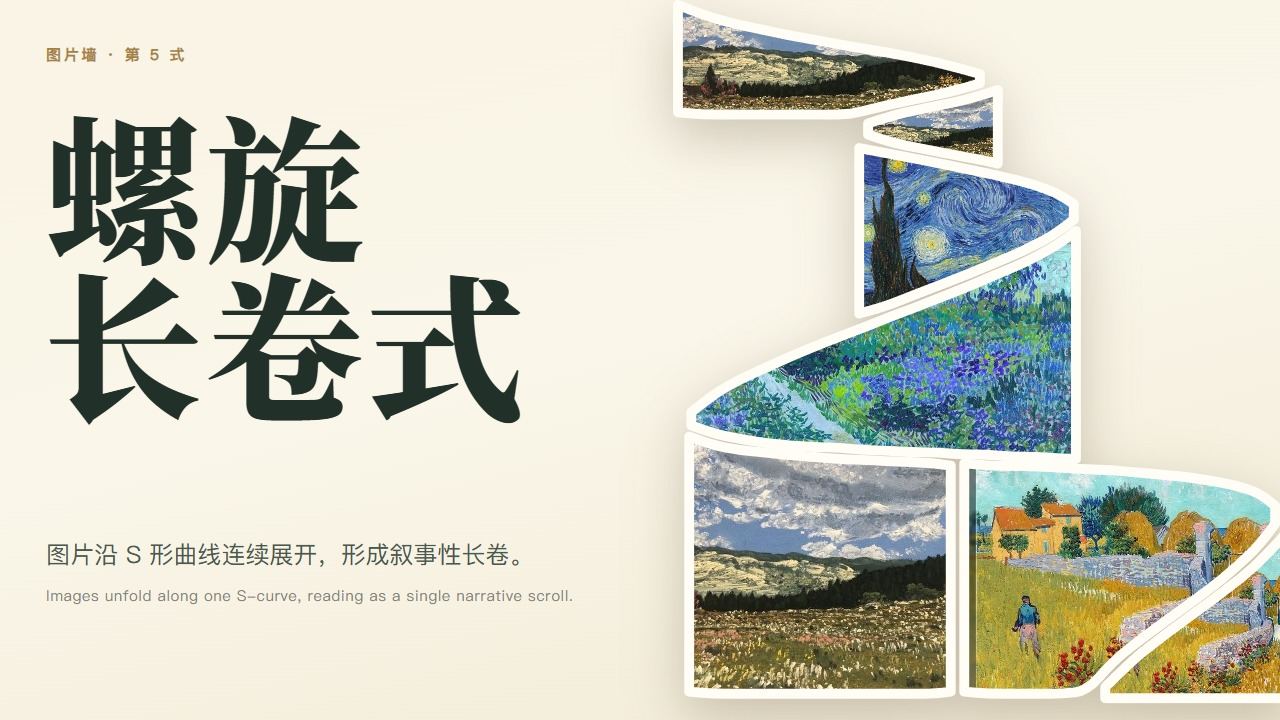
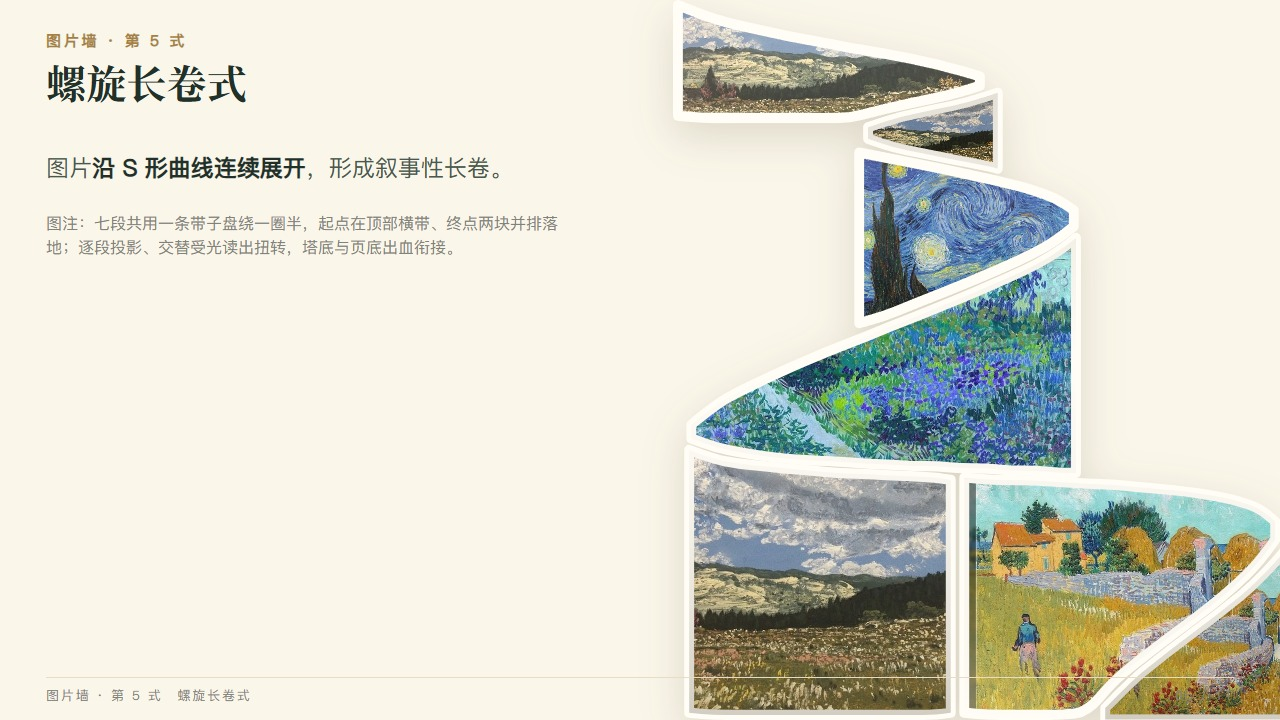
rice-paper-ppt 1.7.1：螺旋长卷式整页通栏重做（文字规格对齐、逐段立体投影、塔底出血衔接）
- 文字弃 158px 巨字封面（.cv-hero/.cv-couplet/.cv-lede 删除），改与其他十式同一套规格：.sh（kick 15px + stitle 40px）+ .lead + .figcap + .foot（05 / 11），.sb 宽限 520px
- 立体感重做：投影改逐段 SVG 原生滤镜 #coilShadow（feDropShadow，后段压前段）+ .lit 受光层按段交替铺上亮下暗/反向渐变；CSS filter 挂内层 g 会按用户单位栅格化再放大导致整塔发虚，已在文档中记坑
- 底部衔接：viewBox 436 → 423.4（内容底+描边）+ preserveAspectRatio=none + height:720 拉满，塔底与页底出血衔接；落位更名「封面」→「整页通栏」
- components 第八节 SVG/通栏示例、page-patterns §12.5、README、SKILL、interface.yaml、manifest 同步，两份副本 diff 全等

diff --git a/rice-paper-ppt/examples/wall-coil.html b/rice-paper-ppt/examples/wall-coil.html
@@ -3,7 +3,7 @@
 
 <head>
   <meta charset="utf-8">
-  <title>图片墙 第 5 式 · 螺旋长卷（封面落位）· rice-paper-ppt 示例</title>
+  <title>图片墙 第 5 式 · 螺旋长卷（整页通栏）· rice-paper-ppt 示例</title>
   <link rel="stylesheet" href="../assets/theme.css">
 </head>
 
@@ -11,18 +11,23 @@
   <div class="pbar"></div>
   <div id="deck">
 
-    <!-- 5 螺旋长卷式（旧称「盘旋丝带」）封面落位：path 与 components.md 第八节完全一致，
-         class 加 cv-coil、stroke 2.2 → 6；塔按页高 720 定宽 637、右移 30px 出血。
-         标题 5 字放一行会压到塔（5×158=790 > 611），所以断成两行；
-         定义句横排一句放左下（22 字竖排要拆两列且不好读），需要诗句式标题时再加 .cv-couplet。 -->
-    <section class="slide cover on">
-      <div class="kick" style="position:absolute;left:46px;top:44px">图片墙 · 第 5 式</div>
-      <h1 class="cv-hero"><span>螺旋</span><span>长卷式</span></h1>
-      <div class="cv-lede" style="width:560px;bottom:112px">
-        <p style="font-size:24px">图片沿 S 形曲线连续展开，形成叙事性长卷。</p>
-        <p class="en" style="font-size:15px">Images unfold along one S-curve, reading as a single narrative scroll.</p>
+    <!-- 5 螺旋长卷式（旧称「盘旋丝带」）整页通栏：path 与 components.md 第八节完全一致，
+         改四处 —— class 加 cv-coil、stroke 2.2 → 6、svg 加 preserveAspectRatio="none"、
+         CSS .cv-coil 定 height:720 拉满 → 塔底与页底出血衔接（右缘 -30px 出血同前）。
+         文字与其他十式同一套规格：.sh（kick 15px + stitle 40px）+ .lead 导语 +
+         .figcap 图注 + .foot 页脚；.sb 宽限到 520px，别让导语跑进塔后面。
+         立体：每段挂 SVG 滤镜 #coilShadow 各自投影（后段压前段），
+         .lit 按段交替铺上亮下暗 / 反向渐变；CSS filter 挂内层 g 会发虚，别改回去。 -->
+    <section class="slide on">
+      <div class="sh">
+        <div class="kick">图片墙 · 第 5 式</div>
+        <h1 class="stitle">螺旋长卷式</h1>
       </div>
-      <svg class="w-coil cv-coil" viewBox="-3 -3 386 436" role="img" aria-label="七段取景沿一条盘绕的丝带自上而下铺开">
+      <div class="sb" style="width:520px;right:auto">
+        <p class="lead">图片<b>沿 S 形曲线连续展开</b>，形成叙事性长卷。</p>
+        <div class="figcap">图注：七段共用一条带子盘绕一圈半，起点在顶部横带、终点两块并排落地；逐段投影、交替受光读出扭转，塔底与页底出血衔接。</div>
+      </div>
+      <svg class="w-coil cv-coil" viewBox="-3 -3 386 423.4" preserveAspectRatio="none" role="img" aria-label="七段取景沿一条盘绕的丝带自上而下铺开">
     <defs>
       <clipPath id="coil1"><path d="M0.0 0.0 Q14.9 5.9 22.4 8.1 Q29.8 10.4 37.3 12.0 Q44.7 13.7 52.2 15.2 Q59.6 16.7 67.1 18.3 Q74.5 19.9 82.0 21.0 Q89.5 22.2 96.9 23.7 Q104.4 25.3 111.8 26.3 Q119.3 27.3 126.7 28.8 Q134.2 30.3 141.6 31.6 Q149.1 33.0 156.5 34.8 Q164.0 36.6 171.4 38.6 Q178.9 40.7 180.9 41.3 L183.0 42.0 L183.0 47.4 183.0 47.4 Q178.9 48.8 171.4 50.9 Q164.0 53.0 156.5 54.5 Q149.1 56.0 141.6 57.6 Q134.2 59.2 126.7 60.8 Q119.3 62.5 111.8 64.4 Q104.4 66.4 96.9 66.4 Q89.5 66.4 82.0 66.4 Q74.5 66.4 67.1 66.4 Q59.6 66.4 52.2 66.4 Q44.7 66.4 37.3 66.4 Q29.8 66.4 22.4 66.4 Q14.9 66.4 7.5 65.7 L0.0 65.1 Z"/></clipPath>
       <clipPath id="coil2"><path d="M115.2 71.8 Q130.1 66.9 137.6 65.2 Q145.0 63.6 152.5 62.0 Q159.9 60.5 167.4 59.0 Q174.8 57.4 182.3 55.1 Q189.7 52.9 191.8 52.2 L193.8 51.5 L193.8 96.2 193.8 96.2 Q189.7 95.0 182.3 93.7 Q174.8 92.3 167.4 90.9 Q159.9 89.5 152.5 88.0 Q145.0 86.6 137.6 85.1 Q130.1 83.6 122.7 81.1 L115.2 78.6 Z"/></clipPath>
@@ -31,14 +36,24 @@
       <clipPath id="coil5"><path d="M6.8 261.6 Q21.7 267.0 29.1 268.3 Q36.6 269.7 44.0 270.4 Q51.5 271.1 59.0 271.8 Q66.4 272.6 73.9 273.2 Q81.3 273.8 88.8 274.5 Q96.2 275.1 103.7 275.4 Q111.1 275.6 118.6 276.0 Q126.0 276.5 133.5 276.7 Q141.0 276.9 148.4 277.4 Q155.9 277.8 160.6 278.5 L165.3 279.2 L165.3 416.1 165.3 416.1 Q155.9 417.4 148.4 417.4 Q141.0 417.4 133.5 417.4 Q126.0 417.4 118.6 417.4 Q111.1 417.4 103.7 417.4 Q96.2 417.4 88.8 417.4 Q81.3 417.4 73.9 417.4 Q66.4 417.4 59.0 417.4 Q51.5 417.4 44.0 417.4 Q36.6 417.4 29.1 417.4 Q21.7 417.4 14.2 416.8 L6.8 416.1 Z"/></clipPath>
       <clipPath id="coil6"><path d="M173.5 277.8 Q188.4 279.2 195.8 279.2 Q203.3 279.2 210.8 279.4 Q218.2 279.7 225.7 280.1 Q233.1 280.5 240.6 281.0 Q248.0 281.4 255.5 281.7 Q262.9 281.9 270.4 282.6 Q277.8 283.3 285.3 283.9 Q292.7 284.6 300.2 285.3 Q307.7 286.0 315.1 287.1 Q322.6 288.2 330.0 289.6 Q337.5 290.9 344.9 293.4 Q352.4 295.8 357.1 299.7 L361.9 303.6 L361.9 314.4 361.9 314.4 Q352.4 327.5 344.9 334.5 Q337.5 341.5 330.0 347.6 Q322.6 353.6 315.1 359.1 Q307.7 364.6 300.2 369.9 Q292.7 375.3 285.3 380.9 Q277.8 386.4 270.4 392.4 Q262.9 398.5 255.5 407.1 Q248.0 415.7 240.6 416.6 Q233.1 417.4 225.7 417.4 Q218.2 417.4 210.8 417.4 Q203.3 417.4 195.8 417.4 Q188.4 417.4 180.9 416.8 L173.5 416.1 Z"/></clipPath>
       <clipPath id="coil7"><path d="M258.9 413.4 Q273.8 398.5 281.2 392.4 Q288.7 386.4 296.1 380.9 Q303.6 375.4 311.0 369.9 Q318.5 364.5 326.0 358.9 Q333.4 353.3 340.9 347.4 Q348.3 341.5 355.8 333.8 Q363.2 326.2 365.9 323.0 L368.6 319.9 L368.6 420.1 368.6 420.1 Q363.2 420.1 355.8 420.1 Q348.3 420.1 340.9 420.1 Q333.4 420.1 326.0 420.1 Q318.5 420.1 311.0 420.1 Q303.6 420.1 296.1 420.1 Q288.7 420.1 281.2 420.1 Q273.8 420.1 266.3 420.1 L258.9 420.1 Z"/></clipPath>
+      <filter id="coilShadow" x="-40%" y="-40%" width="180%" height="180%">
+        <feDropShadow dx="0" dy="4" stdDeviation="3" flood-color="#4A3A22" flood-opacity=".30"/>
+        <feDropShadow dx="0" dy="1.2" stdDeviation="1" flood-color="#4A3A22" flood-opacity=".16"/>
+      </filter>
+      <linearGradient id="coilLiteA" x1="0" y1="0" x2="0" y2="1">
+        <stop offset="0" stop-color="#FFFDF6" stop-opacity=".28"/><stop offset=".45" stop-color="#FFFDF6" stop-opacity="0"/><stop offset="1" stop-color="#4A3A22" stop-opacity=".26"/>
+      </linearGradient>
+      <linearGradient id="coilLiteB" x1="0" y1="0" x2="0" y2="1">
+        <stop offset="0" stop-color="#4A3A22" stop-opacity=".20"/><stop offset=".5" stop-color="#4A3A22" stop-opacity="0"/><stop offset="1" stop-color="#FFFDF6" stop-opacity=".16"/>
+      </linearGradient>
     </defs>
-    <g clip-path="url(#coil1)"><image href="img/vg1.jpg" x="0.0" y="0.0" width="191.0" height="74.4" preserveAspectRatio="xMidYMid slice"/></g>
-    <g clip-path="url(#coil2)"><image href="img/vg1.jpg" x="115.2" y="51.5" width="86.6" height="52.7" preserveAspectRatio="xMidYMid slice"/></g>
-    <g clip-path="url(#coil3)"><image href="img/vg4.jpg" x="109.8" y="85.4" width="138.1" height="111.0" preserveAspectRatio="xMidYMid slice"/></g>
-    <g clip-path="url(#coil4)"><image href="img/vg3.jpg" x="8.1" y="136.9" width="241.1" height="146.2" preserveAspectRatio="xMidYMid slice"/></g>
-    <g clip-path="url(#coil5)"><image href="img/vg1.jpg" x="6.8" y="261.6" width="166.6" height="163.9" preserveAspectRatio="xMidYMid slice"/></g>
-    <g clip-path="url(#coil6)"><image href="img/vg2.jpg" x="173.5" y="277.8" width="196.4" height="147.6" preserveAspectRatio="xMidYMid slice"/></g>
-    <g clip-path="url(#coil7)"><image href="img/vg2.jpg" x="258.9" y="319.9" width="117.8" height="108.3" preserveAspectRatio="xMidYMid slice"/></g>
+    <g clip-path="url(#coil1)" class="seg" filter="url(#coilShadow)"><image href="img/vg1.jpg" x="0.0" y="0.0" width="191.0" height="74.4" preserveAspectRatio="xMidYMid slice"/></g>
+    <g clip-path="url(#coil2)" class="seg" filter="url(#coilShadow)"><image href="img/vg1.jpg" x="115.2" y="51.5" width="86.6" height="52.7" preserveAspectRatio="xMidYMid slice"/></g>
+    <g clip-path="url(#coil3)" class="seg" filter="url(#coilShadow)"><image href="img/vg4.jpg" x="109.8" y="85.4" width="138.1" height="111.0" preserveAspectRatio="xMidYMid slice"/></g>
+    <g clip-path="url(#coil4)" class="seg" filter="url(#coilShadow)"><image href="img/vg3.jpg" x="8.1" y="136.9" width="241.1" height="146.2" preserveAspectRatio="xMidYMid slice"/></g>
+    <g clip-path="url(#coil5)" class="seg" filter="url(#coilShadow)"><image href="img/vg1.jpg" x="6.8" y="261.6" width="166.6" height="163.9" preserveAspectRatio="xMidYMid slice"/></g>
+    <g clip-path="url(#coil6)" class="seg" filter="url(#coilShadow)"><image href="img/vg2.jpg" x="173.5" y="277.8" width="196.4" height="147.6" preserveAspectRatio="xMidYMid slice"/></g>
+    <g clip-path="url(#coil7)" class="seg" filter="url(#coilShadow)"><image href="img/vg2.jpg" x="258.9" y="319.9" width="117.8" height="108.3" preserveAspectRatio="xMidYMid slice"/></g>
     <g fill="none" stroke="#FFFDF6" stroke-width="6" stroke-linejoin="round">
       <path d="M0.0 0.0 Q14.9 5.9 22.4 8.1 Q29.8 10.4 37.3 12.0 Q44.7 13.7 52.2 15.2 Q59.6 16.7 67.1 18.3 Q74.5 19.9 82.0 21.0 Q89.5 22.2 96.9 23.7 Q104.4 25.3 111.8 26.3 Q119.3 27.3 126.7 28.8 Q134.2 30.3 141.6 31.6 Q149.1 33.0 156.5 34.8 Q164.0 36.6 171.4 38.6 Q178.9 40.7 180.9 41.3 L183.0 42.0 L183.0 47.4 183.0 47.4 Q178.9 48.8 171.4 50.9 Q164.0 53.0 156.5 54.5 Q149.1 56.0 141.6 57.6 Q134.2 59.2 126.7 60.8 Q119.3 62.5 111.8 64.4 Q104.4 66.4 96.9 66.4 Q89.5 66.4 82.0 66.4 Q74.5 66.4 67.1 66.4 Q59.6 66.4 52.2 66.4 Q44.7 66.4 37.3 66.4 Q29.8 66.4 22.4 66.4 Q14.9 66.4 7.5 65.7 L0.0 65.1 Z"/>
       <path d="M115.2 71.8 Q130.1 66.9 137.6 65.2 Q145.0 63.6 152.5 62.0 Q159.9 60.5 167.4 59.0 Q174.8 57.4 182.3 55.1 Q189.7 52.9 191.8 52.2 L193.8 51.5 L193.8 96.2 193.8 96.2 Q189.7 95.0 182.3 93.7 Q174.8 92.3 167.4 90.9 Q159.9 89.5 152.5 88.0 Q145.0 86.6 137.6 85.1 Q130.1 83.6 122.7 81.1 L115.2 78.6 Z"/>
@@ -48,7 +63,17 @@
       <path d="M173.5 277.8 Q188.4 279.2 195.8 279.2 Q203.3 279.2 210.8 279.4 Q218.2 279.7 225.7 280.1 Q233.1 280.5 240.6 281.0 Q248.0 281.4 255.5 281.7 Q262.9 281.9 270.4 282.6 Q277.8 283.3 285.3 283.9 Q292.7 284.6 300.2 285.3 Q307.7 286.0 315.1 287.1 Q322.6 288.2 330.0 289.6 Q337.5 290.9 344.9 293.4 Q352.4 295.8 357.1 299.7 L361.9 303.6 L361.9 314.4 361.9 314.4 Q352.4 327.5 344.9 334.5 Q337.5 341.5 330.0 347.6 Q322.6 353.6 315.1 359.1 Q307.7 364.6 300.2 369.9 Q292.7 375.3 285.3 380.9 Q277.8 386.4 270.4 392.4 Q262.9 398.5 255.5 407.1 Q248.0 415.7 240.6 416.6 Q233.1 417.4 225.7 417.4 Q218.2 417.4 210.8 417.4 Q203.3 417.4 195.8 417.4 Q188.4 417.4 180.9 416.8 L173.5 416.1 Z"/>
       <path d="M258.9 413.4 Q273.8 398.5 281.2 392.4 Q288.7 386.4 296.1 380.9 Q303.6 375.4 311.0 369.9 Q318.5 364.5 326.0 358.9 Q333.4 353.3 340.9 347.4 Q348.3 341.5 355.8 333.8 Q363.2 326.2 365.9 323.0 L368.6 319.9 L368.6 420.1 368.6 420.1 Q363.2 420.1 355.8 420.1 Q348.3 420.1 340.9 420.1 Q333.4 420.1 326.0 420.1 Q318.5 420.1 311.0 420.1 Q303.6 420.1 296.1 420.1 Q288.7 420.1 281.2 420.1 Q273.8 420.1 266.3 420.1 L258.9 420.1 Z"/>
     </g>
+    <g class="lit">
+      <g clip-path="url(#coil1)"><rect x="-3" y="-3" width="386" height="426.4" fill="url(#coilLiteA)"/></g>
+      <g clip-path="url(#coil2)"><rect x="-3" y="-3" width="386" height="426.4" fill="url(#coilLiteB)"/></g>
+      <g clip-path="url(#coil3)"><rect x="-3" y="-3" width="386" height="426.4" fill="url(#coilLiteA)"/></g>
+      <g clip-path="url(#coil4)"><rect x="-3" y="-3" width="386" height="426.4" fill="url(#coilLiteB)"/></g>
+      <g clip-path="url(#coil5)"><rect x="-3" y="-3" width="386" height="426.4" fill="url(#coilLiteA)"/></g>
+      <g clip-path="url(#coil6)"><rect x="-3" y="-3" width="386" height="426.4" fill="url(#coilLiteB)"/></g>
+      <g clip-path="url(#coil7)"><rect x="-3" y="-3" width="386" height="426.4" fill="url(#coilLiteA)"/></g>
+    </g>
   </svg>
+      <div class="foot"><span>图片墙 · 第 5 式　螺旋长卷式</span><span>05 / 11</span></div>
     </section>
 
   </div>

diff --git a/rice-paper-ppt/assets/theme.css b/rice-paper-ppt/assets/theme.css
@@ -594,8 +594,14 @@ em { font-style: normal; font-weight: 700; color: var(--green); }
    七条 path 与 bbox 原样抄自 components.md 第八节，改动时两边同步。 */
 .w-coil {
   width: 100%; height: auto; display: block;
-  filter: drop-shadow(0 18px 24px rgba(74,58,34,.30)) drop-shadow(0 4px 8px rgba(74,58,34,.14));
+  filter: drop-shadow(0 16px 22px rgba(74,58,34,.22)) drop-shadow(0 3px 6px rgba(74,58,34,.10));
 }
+/* 立体感主力在逐段投影：后画的段压在前一段上，各带自己的影，带子才读得出层叠；
+   只留塔级一层会显得平（2026-11-27 用户反馈后从「投影只挂 svg」改过来）。
+   投影必须用 SVG 原生滤镜（defs 里的 #coilShadow，挂在每段 filter 属性上）——
+   CSS filter 挂内层 <g> 会先按用户单位栅格化再放大，整塔发虚。 */
+/* 受光层：.lit 内按段交替铺 coilLiteA（上亮下暗）/ coilLiteB（反向），渐变写在 SVG defs 里 */
+.w-coil .lit { pointer-events: none; }
 
 /* 立体的最后一道：沿遮罩轮廓压一层顶亮底暗，读出弯曲受光 */
 .w-wave::after,
@@ -801,28 +807,15 @@ em { font-style: normal; font-weight: 700; color: var(--green); }
   letter-spacing: .12em; color: #35493B; transform: rotate(-7deg); transform-origin: left center;
 }
 
-/* ── 封面 · 5 式满幅盘绕塔（右半出血）────────────────────────
-   与 .cover 一起用：塔按页高 720 定宽 637，右移 30px 出血，上下顶到画布边缘。
-   必须写在 .w-coil 之后——两者特异度相同，靠顺序把 width:100% 覆盖掉。 */
+/* ── 5 式整页通栏盘绕塔（右缘 + 底缘出血）────────────────────────
+   常规 .slide 页用：svg 上写 preserveAspectRatio="none"，viewBox 收到内容底
+   （-3 -3 386 423.4），CSS 定 height:720 拉满后塔底与页底出血衔接。
+   必须写在 .w-coil 之后——两者特异度相同，靠顺序把 width:100% 覆盖掉。
+   文字不另设类：.sh / .sb（宽限到 520px）/ .foot 与其他页同一套。 */
 .cv-coil {
-  position: absolute; right: -30px; top: 0; width: 637px; height: auto; display: block;
-  filter: drop-shadow(0 18px 26px rgba(74,58,34,.26));
+  position: absolute; right: -30px; top: 0; width: 637px; height: 720px; display: block;
+  filter: drop-shadow(0 14px 20px rgba(74,58,34,.16));
 }
-.cv-hero {
-  position: absolute; left: 44px; top: 104px; margin: 0;
-  font-family: var(--serif); font-size: 158px; font-weight: 900; line-height: 1;
-  letter-spacing: .02em; color: var(--ink);
-}
-.cv-hero span { display: block; }
-.cv-couplet { position: absolute; left: 478px; top: 118px; display: flex; gap: 30px; }
-.cv-couplet div {
-  writing-mode: vertical-rl; text-orientation: upright;
-  font-family: var(--serif); font-size: 23px; line-height: 1.7;
-  letter-spacing: .36em; color: var(--ink-2);
-}
-.cv-lede { position: absolute; left: 46px; bottom: 100px; width: 500px; margin: 0; }
-.cv-lede p { margin: 0; font-size: 20px; line-height: 1.72; color: var(--ink-2); }
-.cv-lede .en { margin-top: 9px; font-size: 14px; line-height: 1.6; letter-spacing: .04em; color: var(--ink-3); }
 
 /* ── 章节页 ───────────────────────────────────────────────── */
 .sec-num {

diff --git a/rice-paper-ppt/references/components.md b/rice-paper-ppt/references/components.md
@@ -184,9 +184,9 @@
     <div class="wt" style="font-size:var(--fs-h1);margin:0">自上而下，绕出三段风景</div>
     <div class="cb">每块只放一张图，块与块之间留纸白缝，整条读成一个动作。</div>
     <div class="cb sm">横带承担起势与转折，竖带承担停留；末端两块并排，收住全篇。</div>
-    <div class="figcap" style="margin:0">图注：七块同题材取景沿丝带盘绕，投影只挂整座塔。</div>
+    <div class="figcap" style="margin:0">图注：七块同题材取景沿丝带盘绕，逐段投影（SVG 滤镜）、交替受光读出层叠。</div>
   </div>
-  <svg class="w-coil" viewBox="-3 -3 386 436" role="img" aria-label="七段取景沿一条盘绕的丝带自上而下铺开">
+  <svg class="w-coil" viewBox="-3 -3 386 423.4" preserveAspectRatio="none" role="img" aria-label="七段取景沿一条盘绕的丝带自上而下铺开">
     <defs>
       <clipPath id="coil1"><path d="M0.0 0.0 Q14.9 5.9 22.4 8.1 Q29.8 10.4 37.3 12.0 Q44.7 13.7 52.2 15.2 Q59.6 16.7 67.1 18.3 Q74.5 19.9 82.0 21.0 Q89.5 22.2 96.9 23.7 Q104.4 25.3 111.8 26.3 Q119.3 27.3 126.7 28.8 Q134.2 30.3 141.6 31.6 Q149.1 33.0 156.5 34.8 Q164.0 36.6 171.4 38.6 Q178.9 40.7 180.9 41.3 L183.0 42.0 L183.0 47.4 183.0 47.4 Q178.9 48.8 171.4 50.9 Q164.0 53.0 156.5 54.5 Q149.1 56.0 141.6 57.6 Q134.2 59.2 126.7 60.8 Q119.3 62.5 111.8 64.4 Q104.4 66.4 96.9 66.4 Q89.5 66.4 82.0 66.4 Q74.5 66.4 67.1 66.4 Q59.6 66.4 52.2 66.4 Q44.7 66.4 37.3 66.4 Q29.8 66.4 22.4 66.4 Q14.9 66.4 7.5 65.7 L0.0 65.1 Z"/></clipPath>
       <clipPath id="coil2"><path d="M115.2 71.8 Q130.1 66.9 137.6 65.2 Q145.0 63.6 152.5 62.0 Q159.9 60.5 167.4 59.0 Q174.8 57.4 182.3 55.1 Q189.7 52.9 191.8 52.2 L193.8 51.5 L193.8 96.2 193.8 96.2 Q189.7 95.0 182.3 93.7 Q174.8 92.3 167.4 90.9 Q159.9 89.5 152.5 88.0 Q145.0 86.6 137.6 85.1 Q130.1 83.6 122.7 81.1 L115.2 78.6 Z"/></clipPath>
@@ -195,14 +195,24 @@
       <clipPath id="coil5"><path d="M6.8 261.6 Q21.7 267.0 29.1 268.3 Q36.6 269.7 44.0 270.4 Q51.5 271.1 59.0 271.8 Q66.4 272.6 73.9 273.2 Q81.3 273.8 88.8 274.5 Q96.2 275.1 103.7 275.4 Q111.1 275.6 118.6 276.0 Q126.0 276.5 133.5 276.7 Q141.0 276.9 148.4 277.4 Q155.9 277.8 160.6 278.5 L165.3 279.2 L165.3 416.1 165.3 416.1 Q155.9 417.4 148.4 417.4 Q141.0 417.4 133.5 417.4 Q126.0 417.4 118.6 417.4 Q111.1 417.4 103.7 417.4 Q96.2 417.4 88.8 417.4 Q81.3 417.4 73.9 417.4 Q66.4 417.4 59.0 417.4 Q51.5 417.4 44.0 417.4 Q36.6 417.4 29.1 417.4 Q21.7 417.4 14.2 416.8 L6.8 416.1 Z"/></clipPath>
       <clipPath id="coil6"><path d="M173.5 277.8 Q188.4 279.2 195.8 279.2 Q203.3 279.2 210.8 279.4 Q218.2 279.7 225.7 280.1 Q233.1 280.5 240.6 281.0 Q248.0 281.4 255.5 281.7 Q262.9 281.9 270.4 282.6 Q277.8 283.3 285.3 283.9 Q292.7 284.6 300.2 285.3 Q307.7 286.0 315.1 287.1 Q322.6 288.2 330.0 289.6 Q337.5 290.9 344.9 293.4 Q352.4 295.8 357.1 299.7 L361.9 303.6 L361.9 314.4 361.9 314.4 Q352.4 327.5 344.9 334.5 Q337.5 341.5 330.0 347.6 Q322.6 353.6 315.1 359.1 Q307.7 364.6 300.2 369.9 Q292.7 375.3 285.3 380.9 Q277.8 386.4 270.4 392.4 Q262.9 398.5 255.5 407.1 Q248.0 415.7 240.6 416.6 Q233.1 417.4 225.7 417.4 Q218.2 417.4 210.8 417.4 Q203.3 417.4 195.8 417.4 Q188.4 417.4 180.9 416.8 L173.5 416.1 Z"/></clipPath>
       <clipPath id="coil7"><path d="M258.9 413.4 Q273.8 398.5 281.2 392.4 Q288.7 386.4 296.1 380.9 Q303.6 375.4 311.0 369.9 Q318.5 364.5 326.0 358.9 Q333.4 353.3 340.9 347.4 Q348.3 341.5 355.8 333.8 Q363.2 326.2 365.9 323.0 L368.6 319.9 L368.6 420.1 368.6 420.1 Q363.2 420.1 355.8 420.1 Q348.3 420.1 340.9 420.1 Q333.4 420.1 326.0 420.1 Q318.5 420.1 311.0 420.1 Q303.6 420.1 296.1 420.1 Q288.7 420.1 281.2 420.1 Q273.8 420.1 266.3 420.1 L258.9 420.1 Z"/></clipPath>
+      <filter id="coilShadow" x="-40%" y="-40%" width="180%" height="180%">
+        <feDropShadow dx="0" dy="4" stdDeviation="3" flood-color="#4A3A22" flood-opacity=".30"/>
+        <feDropShadow dx="0" dy="1.2" stdDeviation="1" flood-color="#4A3A22" flood-opacity=".16"/>
+      </filter>
+      <linearGradient id="coilLiteA" x1="0" y1="0" x2="0" y2="1">
+        <stop offset="0" stop-color="#FFFDF6" stop-opacity=".28"/><stop offset=".45" stop-color="#FFFDF6" stop-opacity="0"/><stop offset="1" stop-color="#4A3A22" stop-opacity=".26"/>
+      </linearGradient>
+      <linearGradient id="coilLiteB" x1="0" y1="0" x2="0" y2="1">
+        <stop offset="0" stop-color="#4A3A22" stop-opacity=".20"/><stop offset=".5" stop-color="#4A3A22" stop-opacity="0"/><stop offset="1" stop-color="#FFFDF6" stop-opacity=".16"/>
+      </linearGradient>
     </defs>
-    <g clip-path="url(#coil1)"><image href="assets/e1.jpg" x="0.0" y="0.0" width="191.0" height="74.4" preserveAspectRatio="xMidYMid slice"/></g>
-    <g clip-path="url(#coil2)"><image href="assets/e1.jpg" x="115.2" y="51.5" width="86.6" height="52.7" preserveAspectRatio="xMidYMid slice"/></g>
-    <g clip-path="url(#coil3)"><image href="assets/e2.jpg" x="109.8" y="85.4" width="138.1" height="111.0" preserveAspectRatio="xMidYMid slice"/></g>
-    <g clip-path="url(#coil4)"><image href="assets/e3.jpg" x="8.1" y="136.9" width="241.1" height="146.2" preserveAspectRatio="xMidYMid slice"/></g>
-    <g clip-path="url(#coil5)"><image href="assets/e4.jpg" x="6.8" y="261.6" width="166.6" height="163.9" preserveAspectRatio="xMidYMid slice"/></g>
-    <g clip-path="url(#coil6)"><image href="assets/e5.jpg" x="173.5" y="277.8" width="196.4" height="147.6" preserveAspectRatio="xMidYMid slice"/></g>
-    <g clip-path="url(#coil7)"><image href="assets/e5.jpg" x="258.9" y="319.9" width="117.8" height="108.3" preserveAspectRatio="xMidYMid slice"/></g>
+    <g clip-path="url(#coil1)" class="seg" filter="url(#coilShadow)"><image href="assets/e1.jpg" x="0.0" y="0.0" width="191.0" height="74.4" preserveAspectRatio="xMidYMid slice"/></g>
+    <g clip-path="url(#coil2)" class="seg" filter="url(#coilShadow)"><image href="assets/e1.jpg" x="115.2" y="51.5" width="86.6" height="52.7" preserveAspectRatio="xMidYMid slice"/></g>
+    <g clip-path="url(#coil3)" class="seg" filter="url(#coilShadow)"><image href="assets/e2.jpg" x="109.8" y="85.4" width="138.1" height="111.0" preserveAspectRatio="xMidYMid slice"/></g>
+    <g clip-path="url(#coil4)" class="seg" filter="url(#coilShadow)"><image href="assets/e3.jpg" x="8.1" y="136.9" width="241.1" height="146.2" preserveAspectRatio="xMidYMid slice"/></g>
+    <g clip-path="url(#coil5)" class="seg" filter="url(#coilShadow)"><image href="assets/e4.jpg" x="6.8" y="261.6" width="166.6" height="163.9" preserveAspectRatio="xMidYMid slice"/></g>
+    <g clip-path="url(#coil6)" class="seg" filter="url(#coilShadow)"><image href="assets/e5.jpg" x="173.5" y="277.8" width="196.4" height="147.6" preserveAspectRatio="xMidYMid slice"/></g>
+    <g clip-path="url(#coil7)" class="seg" filter="url(#coilShadow)"><image href="assets/e5.jpg" x="258.9" y="319.9" width="117.8" height="108.3" preserveAspectRatio="xMidYMid slice"/></g>
     <g fill="none" stroke="#FFFDF6" stroke-width="2.2" stroke-linejoin="round">
       <path d="M0.0 0.0 Q14.9 5.9 22.4 8.1 Q29.8 10.4 37.3 12.0 Q44.7 13.7 52.2 15.2 Q59.6 16.7 67.1 18.3 Q74.5 19.9 82.0 21.0 Q89.5 22.2 96.9 23.7 Q104.4 25.3 111.8 26.3 Q119.3 27.3 126.7 28.8 Q134.2 30.3 141.6 31.6 Q149.1 33.0 156.5 34.8 Q164.0 36.6 171.4 38.6 Q178.9 40.7 180.9 41.3 L183.0 42.0 L183.0 47.4 183.0 47.4 Q178.9 48.8 171.4 50.9 Q164.0 53.0 156.5 54.5 Q149.1 56.0 141.6 57.6 Q134.2 59.2 126.7 60.8 Q119.3 62.5 111.8 64.4 Q104.4 66.4 96.9 66.4 Q89.5 66.4 82.0 66.4 Q74.5 66.4 67.1 66.4 Q59.6 66.4 52.2 66.4 Q44.7 66.4 37.3 66.4 Q29.8 66.4 22.4 66.4 Q14.9 66.4 7.5 65.7 L0.0 65.1 Z"/>
       <path d="M115.2 71.8 Q130.1 66.9 137.6 65.2 Q145.0 63.6 152.5 62.0 Q159.9 60.5 167.4 59.0 Q174.8 57.4 182.3 55.1 Q189.7 52.9 191.8 52.2 L193.8 51.5 L193.8 96.2 193.8 96.2 Q189.7 95.0 182.3 93.7 Q174.8 92.3 167.4 90.9 Q159.9 89.5 152.5 88.0 Q145.0 86.6 137.6 85.1 Q130.1 83.6 122.7 81.1 L115.2 78.6 Z"/>
@@ -212,23 +222,35 @@
       <path d="M173.5 277.8 Q188.4 279.2 195.8 279.2 Q203.3 279.2 210.8 279.4 Q218.2 279.7 225.7 280.1 Q233.1 280.5 240.6 281.0 Q248.0 281.4 255.5 281.7 Q262.9 281.9 270.4 282.6 Q277.8 283.3 285.3 283.9 Q292.7 284.6 300.2 285.3 Q307.7 286.0 315.1 287.1 Q322.6 288.2 330.0 289.6 Q337.5 290.9 344.9 293.4 Q352.4 295.8 357.1 299.7 L361.9 303.6 L361.9 314.4 361.9 314.4 Q352.4 327.5 344.9 334.5 Q337.5 341.5 330.0 347.6 Q322.6 353.6 315.1 359.1 Q307.7 364.6 300.2 369.9 Q292.7 375.3 285.3 380.9 Q277.8 386.4 270.4 392.4 Q262.9 398.5 255.5 407.1 Q248.0 415.7 240.6 416.6 Q233.1 417.4 225.7 417.4 Q218.2 417.4 210.8 417.4 Q203.3 417.4 195.8 417.4 Q188.4 417.4 180.9 416.8 L173.5 416.1 Z"/>
       <path d="M258.9 413.4 Q273.8 398.5 281.2 392.4 Q288.7 386.4 296.1 380.9 Q303.6 375.4 311.0 369.9 Q318.5 364.5 326.0 358.9 Q333.4 353.3 340.9 347.4 Q348.3 341.5 355.8 333.8 Q363.2 326.2 365.9 323.0 L368.6 319.9 L368.6 420.1 368.6 420.1 Q363.2 420.1 355.8 420.1 Q348.3 420.1 340.9 420.1 Q333.4 420.1 326.0 420.1 Q318.5 420.1 311.0 420.1 Q303.6 420.1 296.1 420.1 Q288.7 420.1 281.2 420.1 Q273.8 420.1 266.3 420.1 L258.9 420.1 Z"/>
     </g>
+    <g class="lit">
+      <g clip-path="url(#coil1)"><rect x="-3" y="-3" width="386" height="426.4" fill="url(#coilLiteA)"/></g>
+      <g clip-path="url(#coil2)"><rect x="-3" y="-3" width="386" height="426.4" fill="url(#coilLiteB)"/></g>
+      <g clip-path="url(#coil3)"><rect x="-3" y="-3" width="386" height="426.4" fill="url(#coilLiteA)"/></g>
+      <g clip-path="url(#coil4)"><rect x="-3" y="-3" width="386" height="426.4" fill="url(#coilLiteB)"/></g>
+      <g clip-path="url(#coil5)"><rect x="-3" y="-3" width="386" height="426.4" fill="url(#coilLiteA)"/></g>
+      <g clip-path="url(#coil6)"><rect x="-3" y="-3" width="386" height="426.4" fill="url(#coilLiteB)"/></g>
+      <g clip-path="url(#coil7)"><rect x="-3" y="-3" width="386" height="426.4" fill="url(#coilLiteA)"/></g>
+    </g>
   </svg>
 </div>
 ```
 
-<!-- E2 封面满幅：path 与上面完全一样，只改两处 —— class 加 cv-coil、stroke 2.2 → 6。
-     塔按页高 720 定宽 637、右移 30px 出血，上下顶到画布边；样式在 theme.css「封面 · 5 式满幅盘绕塔」。
-     标题 5 字放一行会压到塔（5×158=790 > 611），所以断成「螺旋 / 长卷式」两行；
-     竖排对句这一版没有——定义句（22 字）竖排要拆两列且不好读，横排一句放在左下即可，
-     需要诗句式标题时再用 .cv-couplet。 -->
-<section class="slide cover">
-  <div class="kick" style="position:absolute;left:46px;top:44px">图片墙 · 第 5 式</div>
-  <h1 class="cv-hero"><span>螺旋</span><span>长卷式</span></h1>
-  <div class="cv-lede" style="width:560px;bottom:112px">
-    <p style="font-size:24px">图片沿 S 形曲线连续展开，形成叙事性长卷。</p>
-    <p class="en" style="font-size:15px">Images unfold along one S-curve, reading as a single narrative scroll.</p>
+<!-- E2 整页通栏：path 与上面完全一样，改四处 —— class 加 cv-coil、stroke 2.2 → 6、
+     svg 加 preserveAspectRatio="none"（viewBox 已收到内容底 420.1+3=423.4）、
+     CSS 由 .cv-coil 定 height:720 拉满，塔底与页底出血衔接。
+     文字不另设类：.sh（kick 15px + stitle 40px）+ .sb（宽限到 520px）+ .lead + .figcap + .foot，
+     与其他十式同一套规格；样式只剩 .cv-coil，在 theme.css「5 式整页通栏盘绕塔」段。 -->
+<section class="slide">
+  <div class="sh">
+    <div class="kick">图片墙 · 第 5 式</div>
+    <h1 class="stitle">螺旋长卷式</h1>
   </div>
-  <!-- 这里放同一个 <svg>，class="w-coil cv-coil"，stroke-width="6" -->
+  <div class="sb" style="width:520px;right:auto">
+    <p class="lead">图片<b>沿 S 形曲线连续展开</b>，形成叙事性长卷。</p>
+    <div class="figcap">图注：七段共用一条带子盘绕一圈半，起点在顶部横带、终点两块并排落地；逐段投影、交替受光读出扭转。</div>
+  </div>
+  <!-- 这里放同一个 <svg>，class="w-coil cv-coil" preserveAspectRatio="none"，stroke-width="6" -->
+  <div class="foot"><span>图片墙 · 第 5 式　螺旋长卷式</span><span>05 / 11</span></div>
 </section>
 ```
 

diff --git a/rice-paper-ppt/SKILL.md b/rice-paper-ppt/SKILL.md
@@ -1,7 +1,7 @@
 ---
 name: rice-paper-ppt
-version: 1.7.0
-description: 制作或改版「米纸质感」风格的 HTML 幻灯片时使用：1280×720 单页文件式 deck，暖米纸底 + 深林绿 + 哑光金的中式编辑版式，衬线大标题、投影级字号（正文不低于 20px，表格/代码不低于 18px），自带 theme.css 版式系统、6 页可运行骨架、十二种版式配方（含多图排版的图片墙十一式：1 齐边错落式 / 2 波浪贯通式 / 3 纵深渐进式 / 4 不对称叶片式 / 5 螺旋长卷式——内联 SVG 逐块裁形填图，封面与内容页两种落位 / 6 半圆扇面式——扇骨即放射接缝 / 7 弧形切幅式——上缘左低右高单向抬起 / 8 矩阵网格式——两翼绕中缝卷入 / 9 折页长卷式与 10–11 弧幕连屏式（外弧、内弧）——共边梯形不用逐片旋转，曲线用 clip-path path、纵深用 perspective+rotateY、立体靠暖白拼缝、沿轮廓投影与受光差，2 / 4 的曲线按参考图逐列量得再转贝塞尔，4 左端下缘单调收束不留尖钩）、可选增强层 fx.js（无 GSAP 时自动退回纯 CSS，有 GSAP 时接管编排，并留出 WebGL / Canvas 的注册接口）与 Playwright 逐页版式审计脚本；视觉与文案双层规范、文案分语言与信息结构两份：版式层固定页码「当前/总页」、章节首页徽记（印章圆环 + 单色线稿）、视频暂停与进度条控件，文案层按 copywriting-spec.md 约束标题、句式、术语与标点，按 content-structure-spec.md 约束专业术语提炼、信息层级重构、内容压缩、章节封面定位与信息可视化，消除机械化对比句式、口语化引导语、模糊代称和空泛营销表达。适用于汇报、路演、方案宣讲、培训、分享会、文化展陈、课程等任何需要大屏投影且讲究纸感的场合，也适用于把已有同类 HTML 幻灯片按这套规范重构（放大字号、消除空旷、修溢出、重排层级、规范文案语言、给一组图排成整墙）。触发词：米纸风 PPT、中式学术风幻灯片、纸感 deck、把这份 PPT 改成米纸风格、HTML 幻灯片改版、放大字号、排得专业点、PPT 文案规范化、PPT 文案精炼、信息结构化、专业术语提炼、去掉模糊代称、章节封面精简、多图排版、几张图怎么排、图片墙、图片错落排布、去掉 AI 味。
+version: 1.7.1
+description: 制作或改版「米纸质感」风格的 HTML 幻灯片时使用：1280×720 单页文件式 deck，暖米纸底 + 深林绿 + 哑光金的中式编辑版式，衬线大标题、投影级字号（正文不低于 20px，表格/代码不低于 18px），自带 theme.css 版式系统、6 页可运行骨架、十二种版式配方（含多图排版的图片墙十一式：1 齐边错落式 / 2 波浪贯通式 / 3 纵深渐进式 / 4 不对称叶片式 / 5 螺旋长卷式——内联 SVG 逐块裁形填图，整页通栏与内容页两种落位 / 6 半圆扇面式——扇骨即放射接缝 / 7 弧形切幅式——上缘左低右高单向抬起 / 8 矩阵网格式——两翼绕中缝卷入 / 9 折页长卷式与 10–11 弧幕连屏式（外弧、内弧）——共边梯形不用逐片旋转，曲线用 clip-path path、纵深用 perspective+rotateY、立体靠暖白拼缝、沿轮廓投影与受光差，2 / 4 的曲线按参考图逐列量得再转贝塞尔，4 左端下缘单调收束不留尖钩）、可选增强层 fx.js（无 GSAP 时自动退回纯 CSS，有 GSAP 时接管编排，并留出 WebGL / Canvas 的注册接口）与 Playwright 逐页版式审计脚本；视觉与文案双层规范、文案分语言与信息结构两份：版式层固定页码「当前/总页」、章节首页徽记（印章圆环 + 单色线稿）、视频暂停与进度条控件，文案层按 copywriting-spec.md 约束标题、句式、术语与标点，按 content-structure-spec.md 约束专业术语提炼、信息层级重构、内容压缩、章节封面定位与信息可视化，消除机械化对比句式、口语化引导语、模糊代称和空泛营销表达。适用于汇报、路演、方案宣讲、培训、分享会、文化展陈、课程等任何需要大屏投影且讲究纸感的场合，也适用于把已有同类 HTML 幻灯片按这套规范重构（放大字号、消除空旷、修溢出、重排层级、规范文案语言、给一组图排成整墙）。触发词：米纸风 PPT、中式学术风幻灯片、纸感 deck、把这份 PPT 改成米纸风格、HTML 幻灯片改版、放大字号、排得专业点、PPT 文案规范化、PPT 文案精炼、信息结构化、专业术语提炼、去掉模糊代称、章节封面精简、多图排版、几张图怎么排、图片墙、图片错落排布、去掉 AI 味。
 license: MIT
 ---
 
@@ -111,7 +111,7 @@ cp -r rice-paper-ppt ~/.claude/skills/
 | 分部分 | 章节分隔（深绿章板） | 底色加重 + 超大编号 + 大标题 + 3 条要点 + 一句格言 + **本章徽记** |
 | 讲一个案例 | 图文分栏 | 图占 45–65%，文字只留 3 条结论 |
 | 两案对照 | 双栏并列 | 等宽两列 + 一条 `.bar` 收束 |
-| 并置一组图 | 图片墙十一式 | 1 齐边错落式 4–5 张照片卡上下错位 / 2 波浪贯通式 4 张通栏大 S 出血（波峰 20%、波谷 81%）/ 3 纵深渐进式 8 张透视纵深贴右缘 / 4 不对称叶片式 4–5 张一条遮罩裁出不规则叶片 / 5 螺旋长卷式 7 块盘绕（内联 SVG，两种落位：封面 637×720 右半出血 / 内容页 430×485 收右列）/ 6 半圆扇面式 4 片放射（扇骨即接缝）/ 7 弧形切幅式 4 张上缘左低右高单向抬起 / 8 矩阵网格式 2×2 两翼绕中缝各转 22° / 9 折页长卷式 4 片共边梯形 / 10–11 弧幕连屏式 4–5 片外弧或内弧；文字只留一条标题带。各 式 16:9 整页实拍 `examples/wall-stagger|wave|depth|fan|coil|sec|crest|grid|fold|arc|arc-inner.jpg` |
+| 并置一组图 | 图片墙十一式 | 1 齐边错落式 4–5 张照片卡上下错位 / 2 波浪贯通式 4 张通栏大 S 出血（波峰 20%、波谷 81%）/ 3 纵深渐进式 8 张透视纵深贴右缘 / 4 不对称叶片式 4–5 张一条遮罩裁出不规则叶片 / 5 螺旋长卷式 7 块盘绕（内联 SVG，两种落位：整页通栏 637×720 三边出血 / 内容页 430×485 收右列）/ 6 半圆扇面式 4 片放射（扇骨即接缝）/ 7 弧形切幅式 4 张上缘左低右高单向抬起 / 8 矩阵网格式 2×2 两翼绕中缝各转 22° / 9 折页长卷式 4 片共边梯形 / 10–11 弧幕连屏式 4–5 片外弧或内弧；文字只留一条标题带。各 式 16:9 整页实拍 `examples/wall-stagger|wave|depth|fan|coil|sec|crest|grid|fold|arc|arc-inner.jpg` |
 | 比参数 / 比方案 | 表格 | 4–7 行；7 行以上用 `.tbl.tight` |
 | 展示一段原文 | 引文框 | `pbox` + 结果图 + 高亮本次新增部分 |
 | 讲步骤 | 横向流程 | 4 节点 + 旁注 + `.bar` |
@@ -124,7 +124,7 @@ cp -r rice-paper-ppt ~/.claude/skills/
 多图并置的页面按「图片墙十一式」选母题：齐边错落式讲并列、波浪贯通式讲连续、纵深渐进式讲层进、
 不对称叶片式讲收束、螺旋长卷式讲一段有起点与终点的行进、半圆扇面式讲聚拢、弧形切幅式讲延伸、
 矩阵网格式讲秩序、折页长卷式讲折页展开、弧幕连屏式（含内弧）讲环幕。选型先看内容关系，再看落位：
-2 / 4 / 6 / 7 / 8 / 10 / 11 左右出血铺满画布，3 右缘出血贴边并向左收，5 有两种落位——封面铺成右半 637×720 出血，
+2 / 4 / 6 / 7 / 8 / 10 / 11 左右出血铺满画布，3 右缘出血贴边并向左收，5 有两种落位——整页通栏拉满 637×720 三边出血，
 内容页收成右列 430 的竖塔、不铺满。
 十一式都不给每张图单独配卡片，立体感只来自四件事——暖白拼缝（3px、`#FFFDF6`）、
 沿轮廓的 `drop-shadow`、边缘顶亮底暗、尺寸或位置的错落；发光与玻璃一律不用。
@@ -281,7 +281,7 @@ rice-paper-ppt/
     ├── preview.jpg                # 六页骨架预览
     ├── wall-four|coil|sec-crest|curve.html  # 1–4 / 5 / 6–7 / 8–11 式可运行示例页
     ├── wall-stagger|wave|depth|fan.jpg      # 1–4 式 1280×720 整页实拍
-    ├── wall-coil.jpg              # 5 螺旋长卷式封面落位实拍（637×720 出血）
+    ├── wall-coil.jpg              # 5 螺旋长卷式整页通栏实拍（637×720 三边出血）
     ├── wall-sec|crest.jpg         # 6–7 式整页实拍
     └── wall-grid|fold|arc|arc-inner.jpg     # 8–11 式整页实拍
 ```

diff --git a/rice-paper-ppt/references/page-patterns.md b/rice-paper-ppt/references/page-patterns.md
@@ -185,7 +185,7 @@ SVG 的 presentation attribute 不吃 `var()`，所以别在图标里写 `var(--
 
 十一式对应十一类内容关系，选错式比排得不好看更糟。**1–4 式用同一组四张横图各出一张
 1280×720 整页实拍（`examples/wall-stagger.jpg` / `wall-wave.jpg` / `wall-depth.jpg` / `wall-fan.jpg`，
-标题即式名、标题下即定义），5–11 式各有实拍：`wall-coil.jpg`（封面落位）、`wall-sec|crest.jpg`、
+标题即式名、标题下即定义），5–11 式各有实拍：`wall-coil.jpg`（整页通栏）、`wall-sec|crest.jpg`、
 `wall-grid|fold|arc|arc-inner.jpg`**，下面各式的参数与它们一一对应：
 
 | 式 | 形态 | 内容关系 | 图数 | 落位 | 文字 |
@@ -194,7 +194,7 @@ SVG 的 presentation attribute 不吃 `var()`，所以别在图标里写 `var(--
 | 2 波浪贯通式 | 沿连续波浪曲线拼接，形成整体画面 | 连续、推移、无断点 | 4 | 左右出血，铺满画布 | 图下左对齐标题带 |
 | 3 纵深渐进式 | 按纵向层次递进，营造空间纵深 | 层进、体系、过程归档 | 8 | 右缘出血贴边，向左收 | 左列结论，两条以内 |
 | 4 不对称叶片式 | 以不对称弧形边缘连接，形成叶片效果 | 收束、汇总、收尾 | 4–5 | 左右出血，铺满画布 | 图上居中标题 + 一行图注 |
-| 5 螺旋长卷式 | 一条带子绕一圈半，切成七块 | 行进、绕行，有起点与终点 | 7（5–7 张图） | 封面满幅 637×720 出血 / 内容页 430×485 | 封面：大标题 + 底部正文；内容页：导语 + 标题 + 2 条 |
+| 5 螺旋长卷式 | 一条带子绕一圈半，切成七块 | 行进、绕行，有起点与终点 | 7（5–7 张图） | 整页通栏 637×720 三边出血 / 内容页 430×485 | 通栏：常规标题带规格；内容页：导语 + 标题 + 2 条 |
 | 6 半圆扇面式 | 四片围绕半圆放射展开，扇骨即接缝 | 聚拢、围绕一个中心 | 4 | 左右出血，舞台 1280×449 | 内弧下空档居中贴条 |
 | 7 弧形切幅式 | 只弯上缘，左低右高单向抬起 | 延伸、推移、地平线 | 4 | 左右出血，下缘贴内容区底 | 左上三角纸面文字块 |
 | 8 矩阵网格式 | 2×2 网格，两翼绕中缝卷入 | 秩序、整体、矩阵 | 4 | 左右出血 92px | 图下居中标题带 |
@@ -334,7 +334,7 @@ SVG 的 presentation attribute 不吃 `var()`，所以别在图标里写 `var(--
 
 | 落位 | 塔 | 缝 | 左列 | 用在 |
 |---|---|---|---|---|
-| 封面 / 章节页 | 637×720（正好一页高），`right:-30px` 出血，上下顶到画布边 | 6（显约 10px） | 大标题 158px 两行 + 竖排对句 23px 两列 + 底部正文 20px 两行 + EN 14px | 开篇、换章、收尾 |
+| 整页通栏 | 637×720，svg 写 `preserveAspectRatio="none"` 由 CSS 拉满一页高，`right:-30px` 右缘出血、底缘与页底衔接 | 6（显约 10px） | 常规规格：kick 15px + 标题 40px（`.sh`）+ 导语 23px + 图注 + 页脚 | 开篇、换章、收尾 |
 | 内容页 | 430×485，`.sb` 里 `align-items:start` | 2.2（显约 2.4px） | 导语 + 标题 40px + 两段正文 + 图注 | 正文中间的案例 |
 
 - 结构（内容页）：`.grow` 两列（文字 `1fr` + 塔 `430px`、`gap:44px`、`align-items:start`），
@@ -343,10 +343,12 @@ SVG 的 presentation attribute 不吃 `var()`，所以别在图标里写 `var(--
   三样挤成一堆；挪到 `.sb` 之外又落回普通流、跑到页面顶部。塔是内联
   `<svg class="w-coil" viewBox="-3 -3 386 436">`，`theme.css` 里只给 `width:100%; height:auto`
   和一层 `drop-shadow`。
-- 结构（封面）：`<section class="slide cover">` + `<svg class="w-coil cv-coil">`。
-  637 = 720 × 386/436，塔正好一页高；`right:-30px` 让右缘出血——形状在 viewBox 右侧
-  本来空着 14.4 单位（637 宽下约 24px），不移动就留一条白条，移 30 是连出血 6px 一起算的。标题 `.cv-hero`、对句 `.cv-couplet`、
-  正文 `.cv-lede` 的位置字号都写在 `theme.css` 的「封面 · 5 式满幅盘绕塔」段。
+- 结构（整页通栏）：`<section class="slide">` + `.sh`（kick + stitle）+ `.sb`（`.lead` + `.figcap`，
+  **宽限到 520px**）+ `.foot` + `<svg class="w-coil cv-coil" preserveAspectRatio="none">`。
+  637 = 720 × 386/426.4 再由 CSS `height:720px` 拉满；`right:-30px` 让右缘出血——形状在 viewBox 右侧
+  本来空着 14.4 单位（637 宽下约 24px），不移动就留一条白条，移 30 是连出血 6px 一起算的。
+  底部衔接：viewBox 高度从 436 收到 423.4（内容底 420.1 + 描边 3），拉满后塔底与页底出血衔接、
+  不再留纸条。文字不另设类，样式只剩 `.cv-coil`，在 `theme.css` 的「5 式整页通栏盘绕塔」段。
 - 七块沿丝带走向：顶部横带 191×74 → 转角小三角 87×53 → 右侧竖带 138×111 →
   **最大的一块 L 形 241×146**（横带接竖带，是整条的主力）→ 左下竖块 167×164 →
   右下横块 196×148 → 右下角小三角 118×108。
@@ -358,8 +360,8 @@ SVG 的 presentation attribute 不吃 `var()`，所以别在图标里写 `var(--
   CSS 的 `clip-path` 描不了边，逐块内缩又得手工算偏移——这是十一式里唯一用 SVG 的一式，
   不是风格选择，是几何决定的。
 - `viewBox` 让它随列宽自动缩放：改尺寸只改塔宽，七条 path 一位不用动
-  （2 / 3 / 4 的 path 是像素写死的，改画布宽要重算）。viewBox 取 `-3 -3 386 436`，
-  外扩的 3px 是留给轮廓描边的——改成 `0 0 380 430` 会把最外圈的白描边裁掉。
+  （2 / 3 / 4 的 path 是像素写死的，改画布宽要重算）。viewBox 取 `-3 -3 386 423.4`，
+  外扩的 3px 是留给轮廓描边的——改成 `0 0 380 420` 会把最外圈的白描边裁掉（2026-11-27 从 436 收到 423.4，让塔底贴到页底）。
 - 坑：**七块大小差五倍**。最小的两块（87×53、118×108）只够放「一块色」，
   配图时让它们与相邻块共用同一张，读成「一条带子上的两个连续面」；
   别指望小块单独表意，也别把唯一的证据图塞进小块。
@@ -368,15 +370,17 @@ SVG 的 presentation attribute 不吃 `var()`，所以别在图标里写 `var(--
 - 坑：**缝要跟着塔宽放大**。同一份 `stroke-width` 在 430 宽上是 2.4px（正好），
   到 637 宽还是 2.2 就只剩一条刻痕——满幅用 6（显 10px）。但别过 8，
   七块会散成七张贴纸，带子的连续感就没了。
-- 坑：**竖排对句每一列一个 div**。把两列塞进同一个 `writing-mode: vertical-rl` 的 flex 容器，
-  会变成「第一列写到底再换列」，列高不受控，第二列被截（我第一版就把「收在同一处」截成了「收在同」）。
 - 坑（内容页）：塔高 485 是**故意不铺满**的，从 150 排到 635、距页脚 40px。
   **430 是内容页的上限**：塔宽 453 时高 512、正好顶到 `.sb` 底边（662），与页脚只剩 13px。
   左列必须有导语 + 标题 + 两条正文才压得住，否则整页右重左轻。
-- 坑（封面）：158px 标题两行就占 316 高，正文必须 `bottom:100` 落到底；
-  正文最多两行 + 一行 EN，再多就顶到标题上。
-- 坑：`2.2px` 与 `6` 都是 386 宽 viewBox 里的值，随塔宽等比缩放后才是屏幕像素；
-  投影只挂在 `<svg>` 上，逐块 `<g>` 加 `drop-shadow` 会变成七张独立卡片。
+- 坑（通栏）：塔拉满一页高后 `.sb` 只剩左半，**宽度必须限到约 520px**，否则导语会跑进塔后面；
+  塔 637 宽 + 左列 520 + 页边距 92，1280 正好放得下，别再加宽塔。
+- 坑：`2.2px` 与 `6` 都是 386 宽 viewBox 里的值，随塔宽等比缩放后才是屏幕像素。
+- **立体感靠逐段投影 + 交替受光**（2026-11-27 改）：每段挂 SVG 原生滤镜 `#coilShadow`
+  （feDropShadow，dy 4 / blur 3，用户单位），后画的段压前面的段，带子读出层叠；
+  `.lit` 层按段交替铺 `coilLiteA`（上亮下暗）/ `coilLiteB`（反向）渐变。
+  只留塔级一层投影是平的。**投影别用 CSS `filter` 挂内层 `<g>`**——Chrome 会先按
+  用户单位栅格化再放大，整塔发虚；SVG 原生滤镜是矢量级渲染，不发虚。
 
 ### 6 半圆扇面式
 

diff --git a/rice-paper-ppt/README.md b/rice-paper-ppt/README.md
@@ -28,7 +28,7 @@ serif display type, projection-scaled typography, a writing-style spec, and a Pl
 - **十二种版式配方**：按「页面作用」选版面，相邻页强制换版式，避免通篇卡片网格。
 - **多图排版十一式**：齐边错落式讲并列（1，4–5 张照片卡上下错位）、波浪贯通式讲连续（2，4 张通栏大 S 只起伏一次）、
   纵深渐进式讲层进（3，8 张沿垂直轴旋转，右缘贴边、近大远小）、不对称叶片式讲收束（4，一条遮罩裁出左厚、中小、右回升）、
-  螺旋长卷式讲一段有起点的历程（5，7 块沿一条带子盘绕，可铺成封面右半满幅或收进内容页右列）、
+  螺旋长卷式讲一段有起点的历程（5，7 块沿一条带子盘绕，可拉满整页通栏或收进内容页右列）、
   半圆扇面式讲聚拢（6，扇骨即放射接缝）、弧形切幅式讲延伸（7，上缘一条弧左低右高）、
   矩阵网格式讲秩序（8，两翼绕中缝卷进来）、折页长卷式讲折页展开（9，四片共边梯形）、
   弧幕连屏式讲环幕（10，内弧 11 反向聚焦中央）。墙内等宽白缝、不逐图配卡；立体感来自暖白拼缝、
@@ -89,15 +89,15 @@ serif display type, projection-scaled typography, a writing-style spec, and a Pl
 5 不是「摊开」而是「走进去」：带子绕一圈半，七块从顶部横带一路盘到右下角的两块并排。
 它有两种落位，**同一批 path，只改塔宽与描边**：
 
-- **封面 / 章节页**：塔 637×720（正好一页高），右移 30px 出血，上下顶到画布边；
-  左上是 158px 的两行大标题，左下压一句定义（需要诗句式标题时再加 `.cv-couplet` 竖排对句）。
-  缝 6（显约 10px）。
+- **整页通栏**：塔拉满 637×720，右移 30px 出血、底部与页底出血衔接（svg 上写
+  `preserveAspectRatio="none"`，viewBox 收到内容底）；文字与其他十式同一套规格——
+  15px 栏目名 + 40px 标题 + 导语 + 图注 + 页脚。缝 6（显约 10px）。
 - **内容页**：塔 430×485 收在右列、顶对齐不铺满；左列导语 + 标题 + 两段正文 + 图注。缝 2.2。
 
-**05 螺旋长卷式** — 图片沿 S 形曲线连续展开，形成叙事性长卷（示例为封面落位）。
+**05 螺旋长卷式** — 图片沿 S 形曲线连续展开，形成叙事性长卷（示例为整页通栏落位）。
 
 <p align="center">
-  <img src="examples/wall-coil.jpg" width="900" alt="05 螺旋长卷式封面落位：两行大标题 + 底部一句定义，右半是一条盘绕的图墙，637×720 出血" />
+  <img src="examples/wall-coil.jpg" width="900" alt="05 螺旋长卷式整页通栏：文字用与其他十式同一套规格，右半一条盘绕的图墙 637×720 三边出血，逐段投影、交替受光" />
 </p>
 
 **06 半圆扇面式** — 多张图片围绕半圆展开，呈扇形放射状布局。
@@ -178,11 +178,11 @@ rice-paper-ppt/
 └── examples/
     ├── preview.jpg                # 六页骨架预览
     ├── wall-four.html             # 1–4 式示例页（可运行，deck 翻页）
-    ├── wall-coil.html             # 5 式封面落位示例页
+    ├── wall-coil.html             # 5 式整页通栏示例页
     ├── wall-sec-crest.html        # 6–7 式示例页
     ├── wall-curve.html            # 8–11 式示例页
     ├── wall-stagger|wave|depth|fan.jpg  # 1–4 式 1280×720 整页实拍
-    ├── wall-coil.jpg              # 5 式封面落位实拍
+    ├── wall-coil.jpg              # 5 式整页通栏实拍
     ├── wall-sec|crest.jpg         # 6–7 式实拍
     ├── wall-grid|fold|arc|arc-inner.jpg # 8–11 式实拍
     └── img/                       # 示例素材（vg1–4 梵高四张等）
